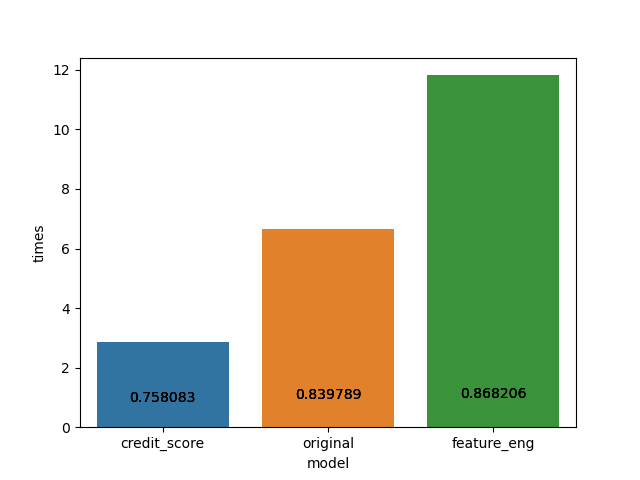
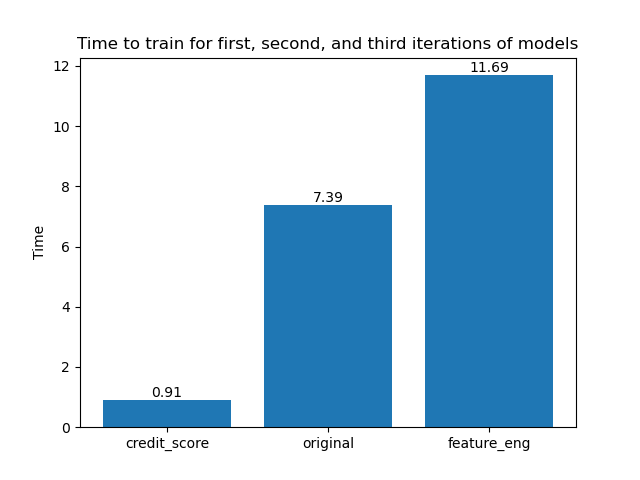
changed reducer, main, pipeline to work with p_true=False. Also used plt for time plot since it was struggling with sns.

diff --git a/src/risknet/run/main.py b/src/risknet/run/main.py
@@ -70,29 +70,6 @@ pr_bar.bar_label(pr_bar.containers[0], fontsize=10)
 plt.savefig('graphs/prs.png')
 plt.show()
 
-time_bar = sns.barplot(data=models, x='model', y='times')
-time_bar.bar_label(time_bar, fontsize=10)
-plt.savefig('graphs/time.png')
-plt.show()
-
-
-'''
-#fig, ax = plt.subplots()
-#rects = ax.bar(order, aucs)
-#ax.bar_label(rects, padding=3)
-#ax.set_ylabel("AUC")
-#ax.set_title("AUC for first, second, and third iterations of models")
-plt.savefig('graphs/aucs.png')
-plt.show()
-
-fig, ax = plt.subplots()
-rects = ax.bar(order, prs)
-ax.bar_label(rects, padding=3)
-ax.set_ylabel("Precision")
-ax.set_title("Precision for first, second, and third iterations of models")
-plt.savefig('graphs/prs.png')
-plt.show()
-
 fig, ax = plt.subplots()
 rects = ax.bar(order, ts)
 ax.bar_label(rects)
@@ -100,4 +77,3 @@ ax.set_ylabel("Time")
 ax.set_title("Time to train for first, second, and third iterations of models")
 plt.savefig('graphs/time.png')
 plt.show()
-'''

diff --git a/src/risknet/proc/reducer.py b/src/risknet/proc/reducer.py
@@ -45,7 +45,6 @@ def reduce(fm_root, i, p_true):
         df = pd.concat([Reducer.simple_ts_split(pd.read_csv(fm_root + "historical_data_2009Q1.txt", sep='|', index_col=False, nrows=1_000_000, names=origination_cols).merge(
             pd.read_pickle(fm_root + 'dev_labels.pkl'), on="loan_sequence_number", how="inner").merge(
             pd.read_pickle(fm_root + 'dev_reg_labels.pkl'), on="loan_sequence_number", how="inner").drop(columns=drop_cols), sort_key='first_payment_date', split_ratio=[0.8, 0.1, 0.1])])
-        print(df.head(5))
     return df
 
 class Reducer:

diff --git a/src/risknet/run/pipeline.py b/src/risknet/run/pipeline.py
@@ -69,7 +69,6 @@ def pipeline(fe_enabled=True, baseline=False, p_true=True):
 
     #Step 2: Reducer: Returns df of combined data to encode
     df = reducer.reduce(fm_root, data[0], p_true)
-    print(df.shape[0])
     #What's the length of data we're using for this dataset? (Includes train/val/test)
     # 621,484 entries when reading into parquet, 
     #As of right now, we are only pulling 2009 data. So we only need data[0].
